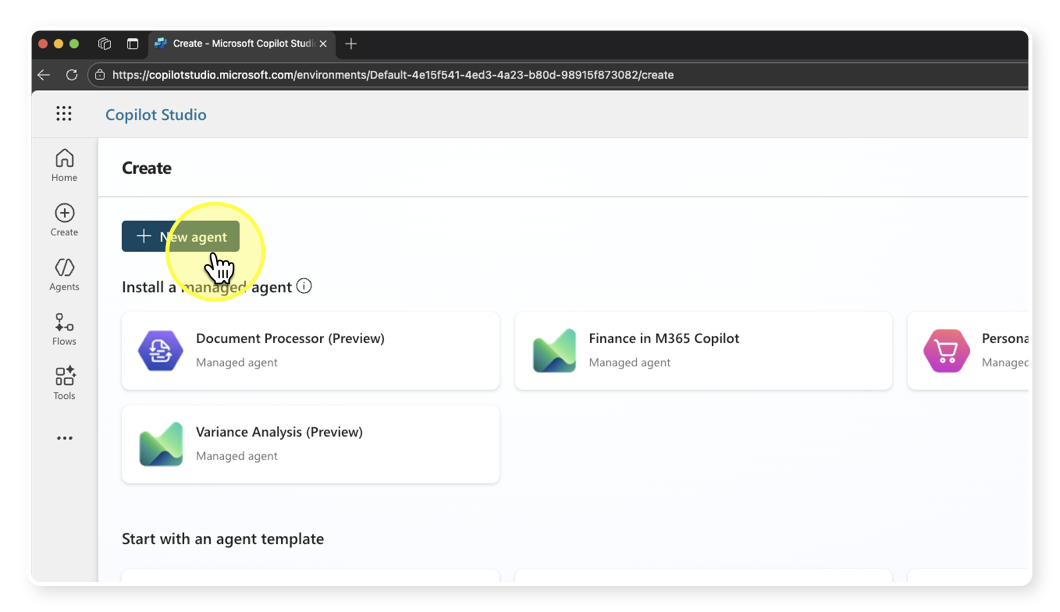
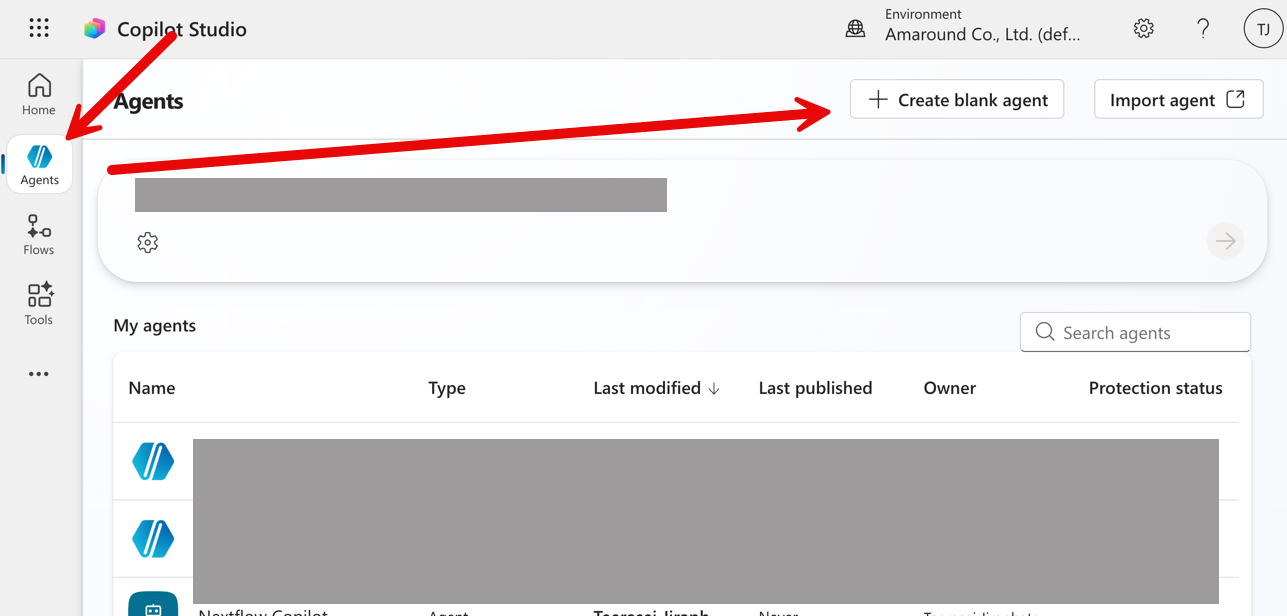
Refactor code structure for improved readability and maintainability

diff --git a/exercises/part2-01-create-agent/README.md b/exercises/part2-01-create-agent/README.md
@@ -4,7 +4,7 @@
 
 ในแบบฝึกหัดนี้ เราจะสร้าง **AI Agent** ตัวแรกของเราผ่าน **Copilot Studio** โดย Agent ที่สร้างจะทำหน้าที่ตอบคำถามเกี่ยวกับนโยบาย HR ของ CPAll — เช่น การลา, สวัสดิการ, และการเบิกค่าใช้จ่าย
 
-> ⚠️ **หมายเหตุ:** ถ้ายังไม่มีสิทธิ์เข้า Copilot Studio ในองค์กร ให้ขอจาก IT Admin หรือทดลองดูขั้นตอนไปพร้อมกับเพื่อนที่มีสิทธิ์ก่อนได้เลย
+> ⚠️ **หมายเหตุ:** ถ้ายังไม่มีสิทธิ์เข้า Copilot Studio ในองค์กร ให้ขอจาก IT Admin หรือทดลองดูขั้นตอนไปพร้อมกับเพื่อนที่มี license ก่อนได้เลย
 
 ---
 
@@ -14,7 +14,7 @@
 
 2. Login ด้วย Microsoft account ขององค์กร
 
-3. ตรวจสอบว่าอยู่ใน **Environment** ที่ถูกต้อง (สังเกตที่มุมขวาบน ควรแสดงชื่อองค์กรของคุณ)
+3. ตรวจสอบว่าอยู่ใน **Environment** ที่ถูกต้อง (สังเกตที่มุมขวาบน ควรแสดงชื่อองค์กร หรือชื่อ Environment ที่กำหนด)
 
    ![ภาพหน้า Login Copilot Studio](./images/copilot-studio-login.png)
 
@@ -22,57 +22,38 @@
 
 ## ขั้นตอนที่ 2: สร้าง Agent ใหม่
 
-1. จากเมนูด้านซ้าย ให้คลิกที่ **Create**
+1. จากเมนูด้านซ้าย ให้คลิกที่ **Agent** เพื่อแสดงรายการ Agent ที่มีอยู่ใน Environment (ถ้ามี)
+   ![alt text](./images/agent-list.png)
 
-   ![ภาพเมนู Create](./images/create-menu.png)
 
-2. คลิกปุ่ม **New agent** ที่มุมขวาบนของหน้า
+2. ในช่อง prompt ด้านบน จะเป็นส่วนที่ทำให้เราสามารถสร้าง Agent ด้วยการพิมพ์อธิบายหน้าที่ให้เป็นภาษาธรรมชาติ (Natural Language) 
 
-   ![ภาพปุ่ม New Agent](./images/new-agent-button.png)
-
-3. ระบบจะเข้าสู่โหมด **Describe** ซึ่งเป็นการสร้าง Agent ด้วยการพิมพ์อธิบายหน้าที่ให้เป็นภาษาธรรมดา
-
-   ![ภาพโหมด Describe](./images/describe-mode.png)
+   ![ภาพโหมด Describe](./images/describe-agent.png)
 
 ---
 
-## ขั้นตอนที่ 3: กำหนดหน้าที่ให้ Agent ด้วยภาษาธรรมดา
+## ขั้นตอนที่ 3: กำหนดหน้าที่ให้ Agent ด้วย Natural Language
 
-1. ในช่องแชทของโหมด Describe ให้คัดลอกข้อความด้านล่างนี้ไปวาง แล้วกด Enter:
+1. ในช่อง Prompt ให้คัดลอกข้อความด้านล่างนี้ไปวาง แล้วกด Enter:
 
    ```
    You are a helpful HR assistant for CPAll employees. You answer questions about company HR policies including leave requests, expense claims, employee benefits, and working hour regulations. Only answer questions related to HR topics.
    ```
 
-   ![ภาพการกำหนด Instruction](./images/set-instruction.png)
+2. Copilot Studio จะตอบรับและสรุปขอบเขตการทำงานของ Agent ให้ จากนั้นจะมีการกำหนดชื่อชั่วคราวให้ Agent นี้ เช่น "HR Assistant" หรือ "CPAll HR Bot" ขึ้นอยู่กับระบบ
 
-2. Copilot Studio จะตอบรับและสรุปขอบเขตการทำงานของ Agent ให้ จากนั้นจะถามชื่อ Agent
+   ![ภาพสรุปหน้าที่ Agent](./images/draft-agent.png)
 
-3. ตั้งชื่อ Agent ว่า:
+3. กดปุ่ม Edit และตั้งชื่อ Agent ว่า:
 
    ```
-   CPAll HR Assistant
+   CPAll HR Assistant [ชื่อตัวเอง]
    ```
 
-4. กด Enter และรอให้ระบบยืนยัน
+4. กด ปุ่ม Save และรอให้ระบบยืนยัน
 
 ---
-
-## ขั้นตอนที่ 4: เพิ่มคำสั่งเสริม (ถ้าต้องการ)
-
-1. คุณสามารถเพิ่มรายละเอียดขอบเขตการทำงานให้ชัดขึ้นได้ เช่น:
-
-   ```
-   Always answer in Thai language. Keep responses concise and professional. If you don't know the answer, suggest contacting the HR department directly.
-   ```
-
-2. กด Enter เพื่อบันทึกคำสั่งเสริม
-
-> 💡 **เคล็ดลับ:** การเขียนคำสั่ง (Instruction) ให้ Agent ชัดเจนจะช่วยให้ Agent ตอบคำถามได้ตรงประเด็นมากขึ้น และลดโอกาสที่ Agent จะตอบเรื่องที่ไม่เกี่ยวข้อง
-
----
-
-## ขั้นตอนที่ 5: ทดสอบ Agent
+## ขั้นตอนที่ 4: ทดสอบ Agent
 
 1. สังเกตด้านขวาของหน้าจอ จะมีหน้าต่างพรีวิว Agent พร้อมให้ทดสอบทันที
 
@@ -84,27 +65,38 @@
    ลาป่วยได้กี่วันต่อปี?
    ```
 
-3. ทดสอบอีกครั้งกับคำถามที่อยู่นอกขอบเขต เพื่อดูว่า Agent ปฏิเสธอย่างไร:
+3. ตรวจสอบว่า Agent ตอบคำถามได้ตรงประเด็นหรือไม่ ซึ่งสังเกตว่า เป็นการตอบคำถามแบบทั่วๆ ไป บางกรณีอาจจะไปค้นข้อมูลใน internet มาตอบ
+
+4. ทดสอบอีกครั้งกับคำถามที่อยู่นอกขอบเขต เพื่อดูว่า Agent ปฏิเสธอย่างไร:
 
    ```
    ช่วยแนะนำร้านอาหารใกล้สำนักงานหน่อย
    ```
 
-4. Agent ควรปฏิเสธคำถามข้อที่ 2 เนื่องจากอยู่นอกขอบเขตที่กำหนดไว้
+5. Agent ควรปฏิเสธคำถามข้อที่ 2 เนื่องจากอยู่นอกขอบเขตที่กำหนดไว้
 
 ---
 
-## ขั้นตอนที่ 6: สร้าง Agent และไปยังหน้าตั้งค่า
 
-1. เมื่อทดสอบแล้วพอใจ ให้กดปุ่ม **Create** ที่มุมขวาบน
+## ขั้นตอนที่ 5: เพิ่มคำสั่งเสริม ใน Instruction (ถ้าต้องการ)
 
-   ![ภาพปุ่ม Create](./images/create-button.png)
+1. คุณสามารถเพิ่มรายละเอียดขอบเขตการทำงานให้ชัดขึ้นได้ โดยการกดปุ่ม **Edit** และเพิ่มคำสั่งในส่วน Instruction เข้าไปด้านล่างของเดิม เช่น:
 
-2. รอสักครู่ ระบบจะประมวลผลและสร้าง Agent ของคุณ
+   ```
+   Always answer in Thai language. Keep responses concise and professional. If you don't know the answer, suggest contacting the HR department directly.
+   ```
+   ![ภาพเพิ่ม Instruction](./images/set-instruction.png)
 
-3. หลังจากสร้างเสร็จ ระบบจะนำคุณไปยังหน้าการตั้งค่า Agent ซึ่งเราจะมาปรับแต่งเพิ่มเติมในแบบฝึกหัดถัดไป
+2. กด **Save** เพื่อบันทึก instruction ใหม่
+3. ทดสอบอีกครั้งกับคำถามชุดเดิม:
+   ```
+   ลาป่วยได้กี่วันต่อปี?
+   ```
+   ```
+   ช่วยแนะนำร้านอาหารใกล้สำนักงานหน่อย
+   ```
 
-> **สิ้นสุดขั้นตอนนี้ — คุณมี Agent ใหม่ชื่อ "CPAll HR Assistant" พร้อมใช้งานแล้ว!**
+> 💡 **เคล็ดลับ:** การเขียนคำสั่ง (Instruction) ให้ Agent ชัดเจนจะช่วยให้ Agent ตอบคำถามได้ตรงประเด็นมากขึ้น และลดโอกาสที่ Agent จะตอบเรื่องที่ไม่เกี่ยวข้อง
 
 ---
 